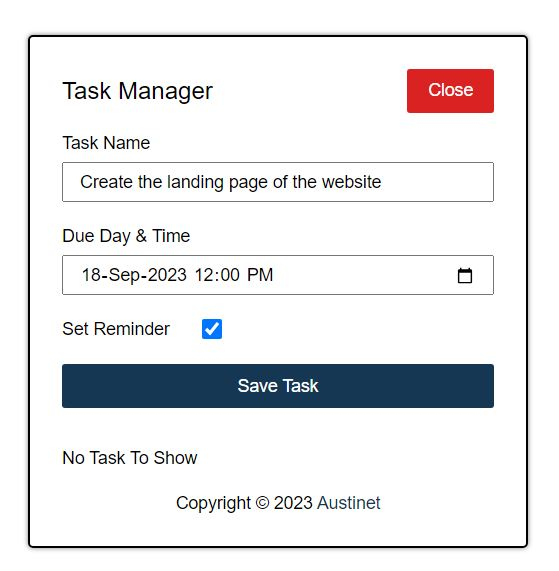
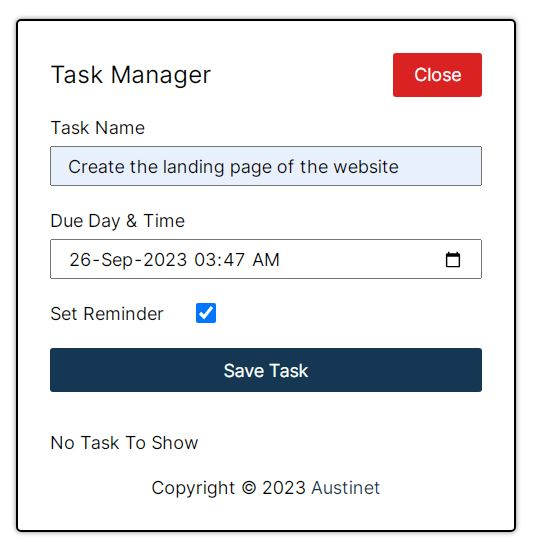
ft: optimize codebase

diff --git a/src/components/ShowTasks/showTasks.css b/src/components/ShowTasks/showTasks.css
@@ -1,37 +1,38 @@
+@import url('https://fonts.googleapis.com/css2?family=Inter:wght@400;500;700&display=swap');
 
 .task-container {
     margin-top: 1.5rem;
-  }
+}
   
-  .task-item {
-    background: #eee;
-    padding: 1rem 1.5rem;
-    margin-bottom: 0.5rem;
-    display: flex;
-    align-items: flex-start;
-    justify-content: space-between;
-  }
+.task-item {
+  background: #eee;
+  padding: 1rem 1.5rem;
+  margin-bottom: 0.5rem;
+  display: flex;
+  align-items: flex-start;
+  justify-content: space-between;
+}
   
-  .task-item .delete-btn {
-    color: var(--red);
-    font-weight: bold;
-    font-size: 1.4rem;
-    padding: 0;
-  }
+.task-item .delete-btn {
+  color: var(--red);
+  font-weight: bold;
+  font-size: 1.4rem;
+  padding: 0;
+}
   
-  .task-item h3 {
-    font-weight: normal;
-    margin-bottom: 0.4rem;
-  }
+.task-item h3 {
+  font-weight: normal;
+  margin-bottom: 0.4rem;
+}
   
-  .task-item p {
-    font-size: 1.05rem;
-  }
+.task-item p {
+  font-size: 1.05rem;
+}
   
-  .green-border {
-    border-left: 4px solid green;
-  }
+.green-border {
+  border-left: 4px solid var(--green);
+}
   
-  .no-task {
-    font-size: 1.1rem;
-  }
+.no-task {
+  font-size: 1.1rem;
+}

diff --git a/src/components/AddTask/addTask.css b/src/components/AddTask/addTask.css
@@ -1,34 +1,33 @@
 form button {
-    background-color: var(--dark-blue);
-    width: 100%;
-    margin: 1rem 0;
-  }
+  background-color: var(--dark-blue);
+  width: 100%;
+  margin: 1rem 0;
+}
   
-  .form-control {
-    margin-bottom: 1.5rem;
-  }
+.form-control {
+  margin-bottom: 1.5rem;
+}
   
-  .form-control-checkbox {
-    display: flex;
-  }
+.form-control-checkbox {
+  display: flex;
+}
   
-  label {
-    font-size: 1.1rem;
-    display: block;
-    margin-bottom: 0.5rem;
-  }
+label {
+  font-size: 1.1rem;
+  display: block;
+  margin-bottom: 0.5rem;
+}
   
-  input[type="text"],
-  input[type="datetime-local"] {
-    width: 100%;
-    height: 40px;
-    padding: 1rem;
-    font-size: 1.1rem;
-    outline: none;
-  }
+.input-box{
+  width: 100%;
+  height: 40px;
+  padding: 1rem;
+  font-size: 1.1rem;
+  outline: none;
+}
   
-  input[type="checkbox"] {
-    width: 20px;
-    height: 20px;
-    margin: 0 0 0.4rem 2rem;
-  }
+input[type="checkbox"] {
+  width: 20px;
+  height: 20px;
+  margin: 0 0 0.4rem 2rem;
+}

diff --git a/src/components/AddTask/AddTask.jsx b/src/components/AddTask/AddTask.jsx
@@ -30,6 +30,7 @@ const AddTask = ({saveTask}) => {
            <input 
               type="text" 
               id="name"
+              className='input-box'
               placeholder="Add Task"
               value={task.name} 
               onChange={(e)=> setTask({...task, name: e.target.value})}
@@ -40,7 +41,8 @@ const AddTask = ({saveTask}) => {
            <label htmlFor="day-time">Due Day & Time</label>
            <input 
              type="datetime-local"  
-             id="dayTime" 
+             id="dateTime" 
+             className='input-box'
              placeholder="Add Day & Time" 
              value={task.dateTime}
              onChange={(e)=> setTask({...task, dateTime: e.target.value})} 

diff --git a/src/components/ShowTasks/Task.jsx b/src/components/ShowTasks/Task.jsx
@@ -3,14 +3,17 @@ import './showTasks.css'
 
 const Task = ({task, deleteTask, setReminder}) => {
   const {id, name, dateTime} = task
+  
   return (
     <div className={`task-item ${task.reminder ? "green-border": ""}`} onDoubleClick={()=> setReminder(id)}>
-    <div className="details">
-      <h3>{name}</h3>
-      <p>{dateTime}</p>
+      <div className="details">
+        <h3>{name}</h3>
+        <p>{dateTime}</p>
+      </div>
+      <button className="delete-btn" onClick={()=> deleteTask(id)}>
+        <i className="fas fa-trash-alt"></i>
+      </button>
     </div>
-    <button className="delete-btn" onClick={()=> deleteTask(id)}>x</button>
-  </div>
   )
 }
 

diff --git a/index.html b/index.html
@@ -6,6 +6,8 @@
     <meta name="viewport" content="width=device-width, initial-scale=1.0" />
     <meta name="description" content="Task Manager built with Reactjs by Austinet">
     <title>Task Manager by Austinet</title>
+      <!-- icons -->
+    <link rel="stylesheet" href="https://cdnjs.cloudflare.com/ajax/libs/font-awesome/6.4.0/css/all.min.css" integrity="sha512-iecdLmaskl7CVkqkXNQ/ZH/XLlvWZOJyj7Yy7tcenmpD1ypASozpmT/E0iPtmFIB46ZmdtAc9eNBvH0H/ZpiBw==" crossorigin="anonymous" referrerpolicy="no-referrer" />  
   </head>
   <body>
     <div id="root"></div>

diff --git a/src/index.css b/src/index.css
@@ -1,8 +1,10 @@
+@import url('https://fonts.googleapis.com/css2?family=Inter:wght@400;500;700&display=swap');
+
 * {
   margin: 0;
   padding: 0;
   box-sizing: border-box;
-  font-family: "Arial", serif;
+  font-family: "Inter", "Arial", serif;
 }
 
 :root {
@@ -10,4 +12,5 @@
   --white: #fff;
   --dark-blue: rgb(21, 55, 83);
   --red: rgb(218, 34, 34);
+  --green: rgb(0, 155, 0);
 }
